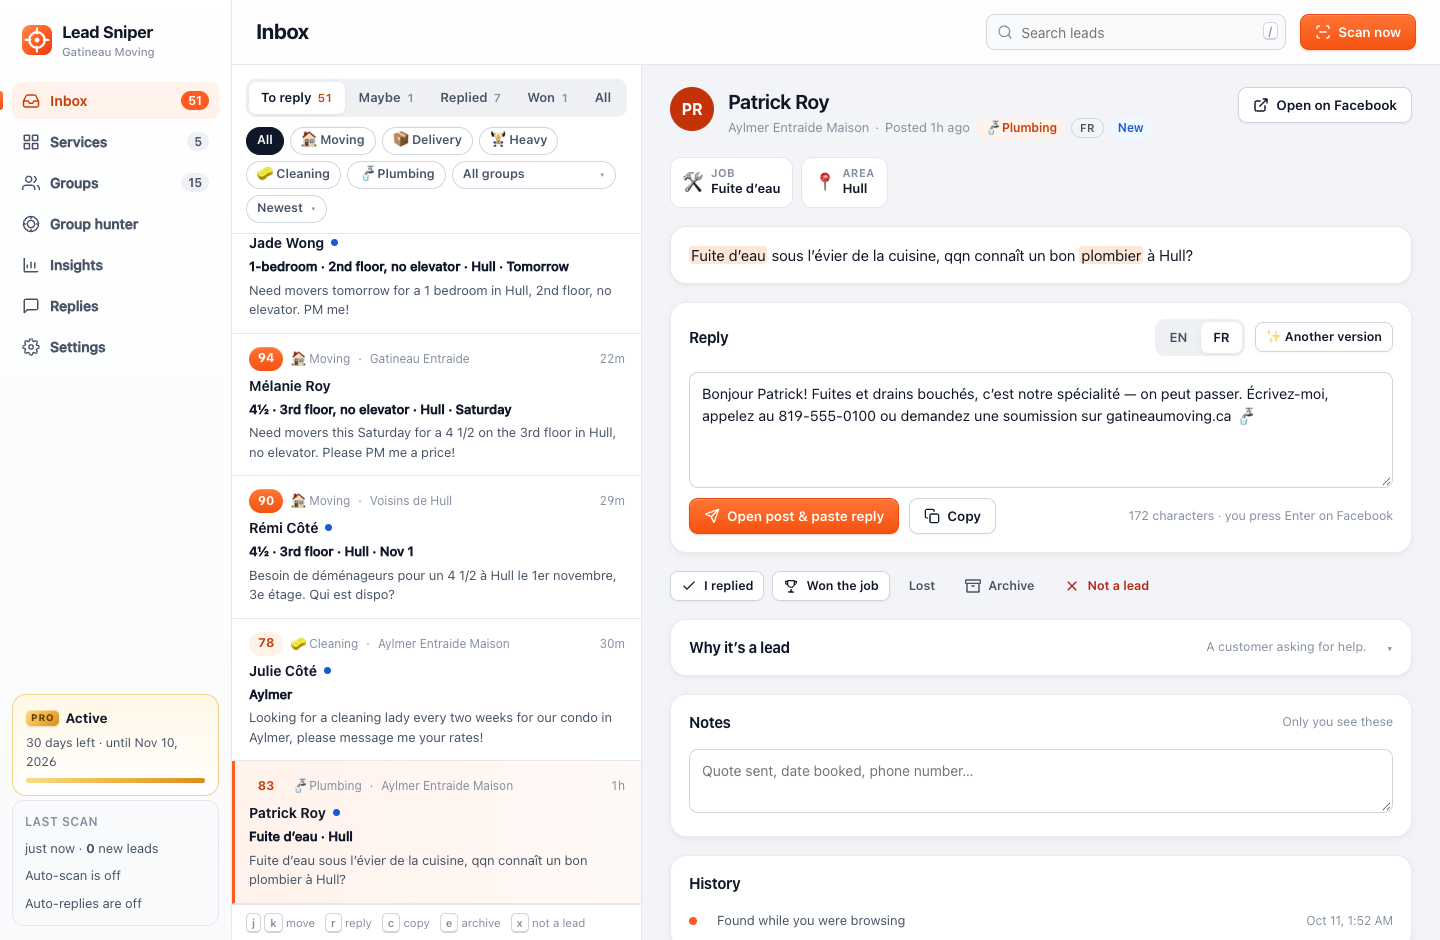
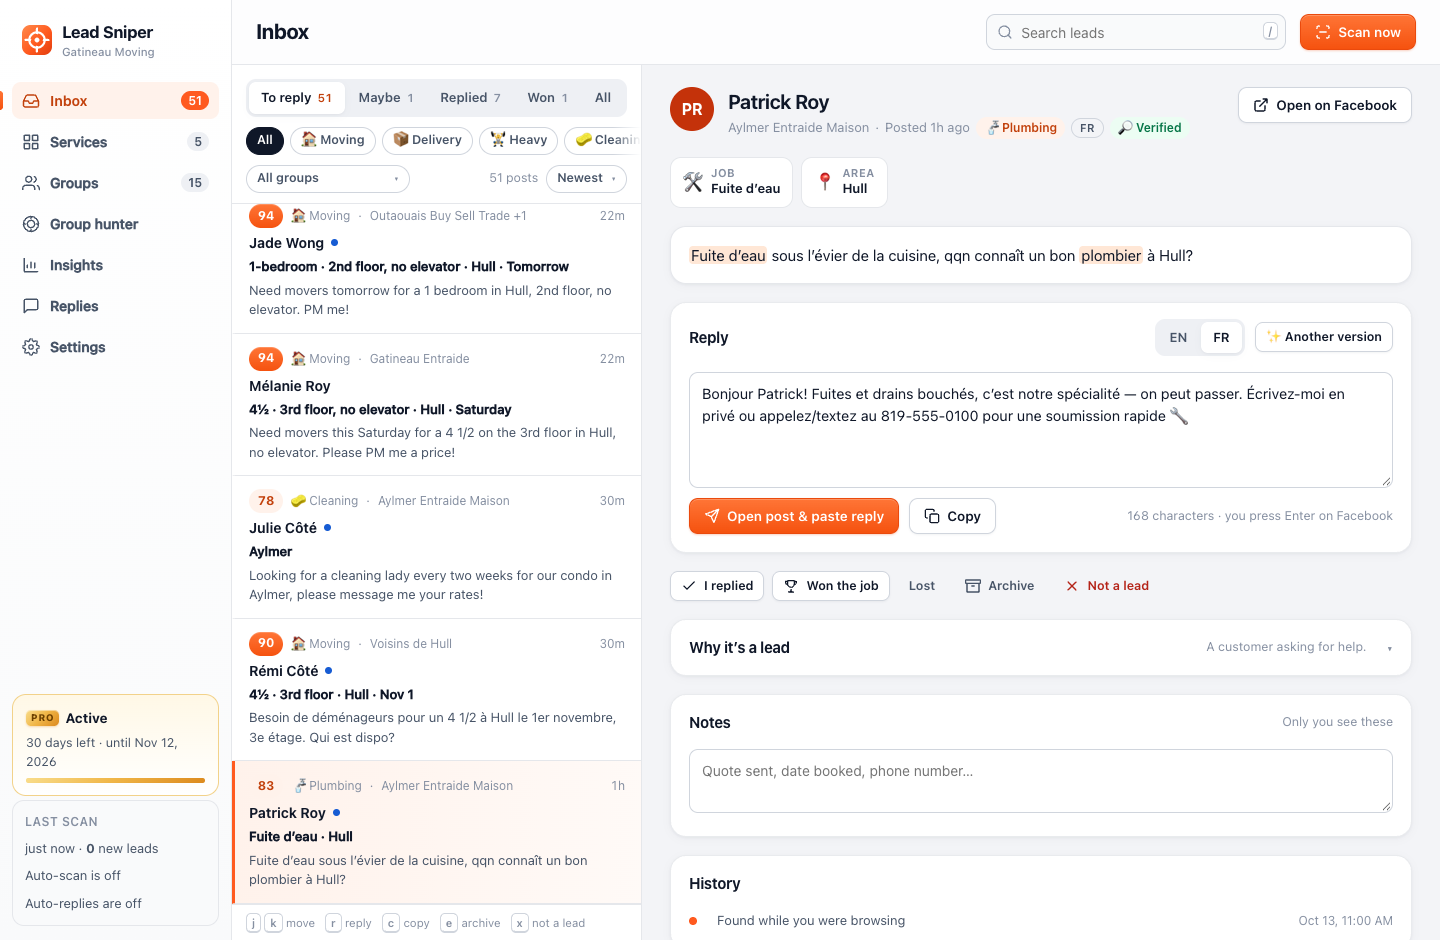
Lead Sniper 3.4: the Verifier and per-service branding

diff --git a/index.html b/index.html
@@ -173,7 +173,7 @@ section.alt { background: var(--bg-2); }
       <div><b>EN + FR</b><span>joual &amp; typos</span></div>
       <div><b>4,500+</b><span>posts / second</span></div>
       <div><b>30</b><span>local services</span></div>
-      <div><b>2,500+</b><span>test posts passed</span></div>
+      <div><b>2,600+</b><span>test posts passed</span></div>
       <div><b>0</b><span>servers or cloud</span></div>
     </div>
   </div>

diff --git a/RELEASE.md b/RELEASE.md
@@ -1,9 +1,20 @@
-**Lead Sniper 3.3 finds every request for your services in your Facebook groups — 30 local services, from moving and cleaning to roofing, tutoring and childcare — in English and Québec French, and has a personal reply ready in one click.** With Pro, it replies for you.
+**Lead Sniper 3.4 finds every request for your services in your Facebook groups — 30 local services, from moving and cleaning to roofing, tutoring and childcare — in English and Québec French, and has a personal reply ready in one click.** With Pro, it replies for you.
 
 ### Install (2 minutes)
 1. Download **lead-sniper.zip** below and double-click it to unzip. Keep the folder somewhere permanent, like Documents.
 2. Open `brave://extensions` (or `chrome://extensions`), turn on **Developer mode**, click **Load unpacked** and pick the folder. Updating? Replace the old folder's files and click the reload arrow on the extension.
 3. On the welcome screen, enter your business name and your group links, then scroll Facebook.
+
+### New in 3.4: the Verifier, and tuning from a live test with 11 home services
+- 🔎 **The Verifier double-checks every automatic reply.** Before Autopilot posts, it re-reads the post for context: written by a person (not a business page), no ad, promotion, job-posting or for-sale wording, hiring rather than asking about prices, reviews or hours, in your area, nothing doubtful, not a flyer. If anything fails, the lead waits in your inbox, marked "Held for your look" with the reason. On past mistakes it holds 28 of 30 false leads, while letting 99% of real customers through
+- 🌐 **Your website and name only where they fit:** a site or business name made for one kind of work ("GatineauMoving.com") stays off your cleaning or plumbing replies; pick exactly which services show them, or give a service its own website (Settings → Replies)
+- ✨ **Polish:** a tidier inbox (services on one scrolling row, a post count, no needless "New" tags), even Services cards, a proper Group Hunter welcome, and the Verifier's verdict on every lead
+- 🤖 **Autopilot's minimum is now 75** (it was 80): most clear trade requests score 75–85, and the Verifier covers the close calls
+- 🎯 **More real customers found:** landlords hiring a handyman, "LF cleaning service", typos like "lookimg", "wondering if anyone is able to…", "DM me if you can help", French posts where *tire* means pull (not tires), and price questions like "how much would it cost to mount a TV?"
+- 🧹 **Fewer false alarms:** group welcome posts, page promotions full of hashtags, businesses pitching to contractors, "installer wanted" job ads, review requests about one contractor, and jobs far from your area (Halifax, Florida…), judged from your service areas and Group Hunter areas
+- 🧭 **Right service, every time:** duct and furnace cleaning → Heating & AC, washer gaskets → Appliance repair, and when a moving service is off, a trade you offer takes the post
+- 🤖 **Autopilot shows what it skips:** the Services page says which of your services Autopilot doesn't answer yet ("Answer all my services automatically"), and a skipped lead has a one-click fix
+- ⚡ Turning several services on in a row now re-checks your posts once, not once per click; no more "maybe" for a service you turned off
 
 ### New in 3.3: polish and a sharper eye
 - 🔁 **"Not a lead" now covers reposts:** a post you dismiss keeps its near copies out too — a competitor posting the same ad every week with small edits, for any service

diff --git a/README.md b/README.md
@@ -18,7 +18,7 @@
 
 <p align="center"><img src="assets/inbox.png" alt="The Lead Sniper inbox" width="92%"></p>
 
-**EN + FR** (joual &amp; typos too) · **4,500+** posts read per second · **500/500** unique replies · **2,500+** test posts passed · **0** servers
+**EN + FR** (joual &amp; typos too) · **4,500+** posts read per second · **500/500** unique replies · **2,600+** test posts passed · **0** servers
 
 ### Install in 2 minutes
 Unzip the [download](https://github.com/hurbiexss/leadsniper/releases/latest/download/lead-sniper.zip), open `brave://extensions` (or `chrome://extensions`), turn on **Developer mode**, click **Load unpacked** and pick the folder.
